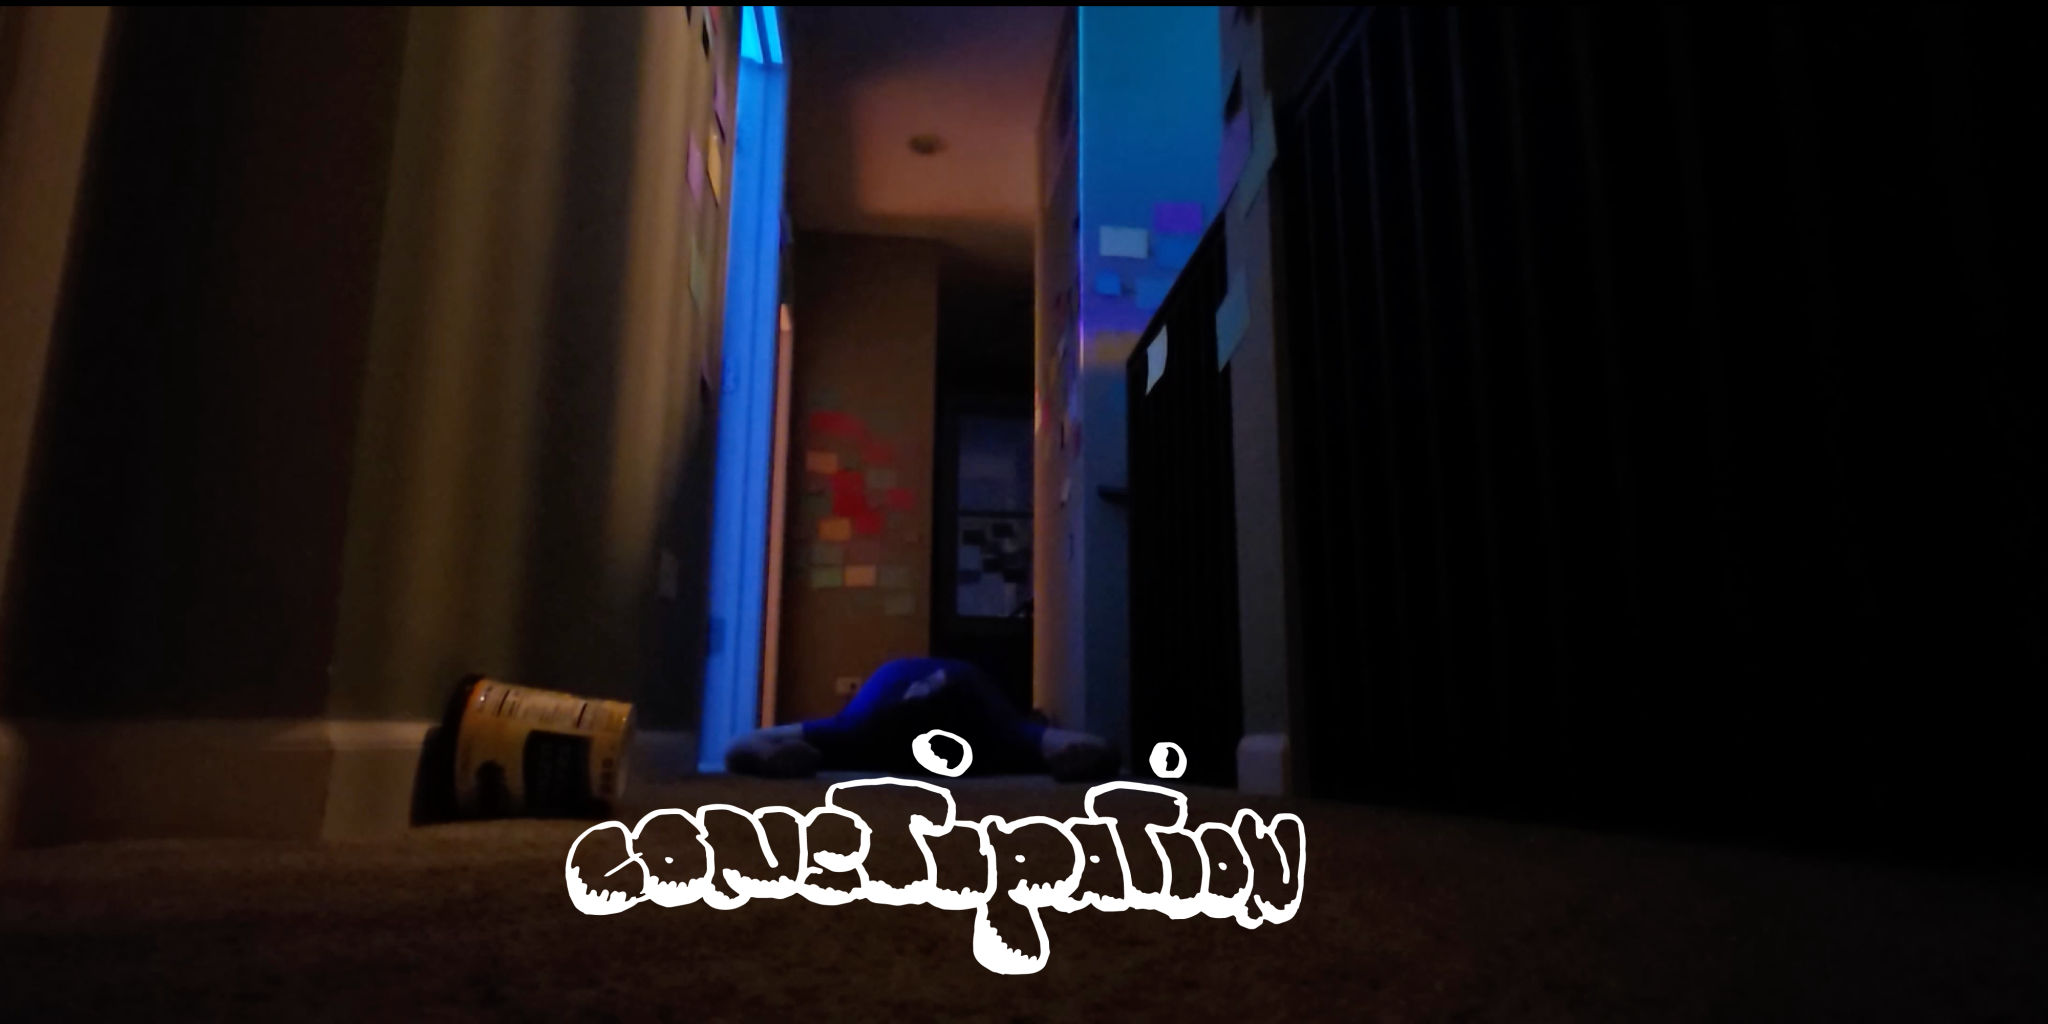
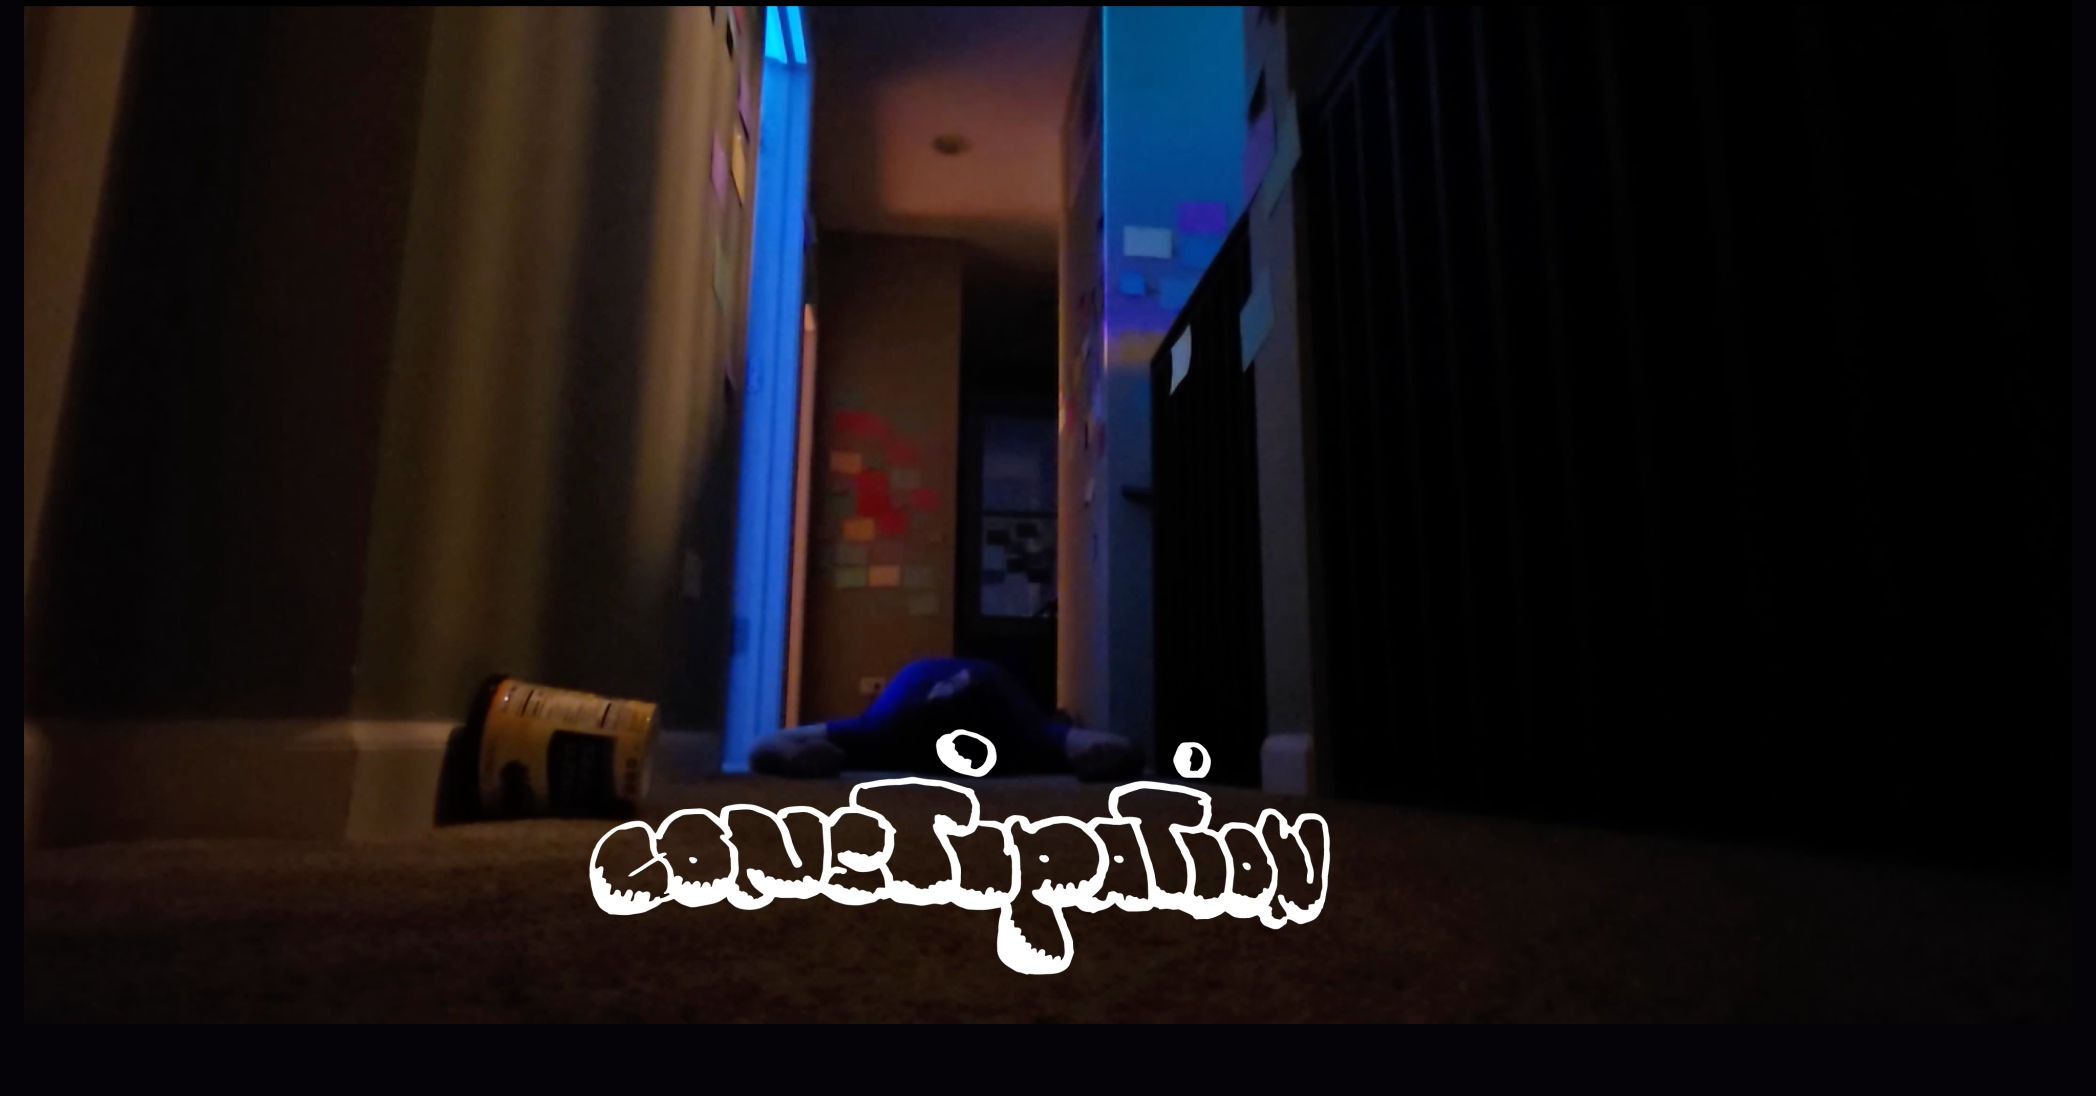
fix: mobile cover layout and new SCRIPT_URL
Phone/iPad get full-bleed cover, centered float menu, and a
single wordmark. Point RSVP at the redeployed Apps Script.

diff --git a/styles.css b/styles.css
@@ -45,14 +45,24 @@ body {
   pointer-events: none;
 }
 
-.bg img {
-  flex: none;
+.bg picture {
+  display: block;
+  width: 100%;
+  height: 100%;
+}
+
+.bg-still {
+  display: block;
   width: 100%;
   height: 100%;
   max-width: none;
   object-fit: cover;
   /* Desktop: keep wordmark in the lower-center sweet spot */
   object-position: center 62%;
+}
+
+.bg-wordmark {
+  display: none;
 }
 
 .stage {
@@ -141,6 +151,18 @@ body {
   text-transform: uppercase;
   color: var(--ink-dim);
   text-shadow: 0 1px 2px rgba(0, 0, 0, 0.75);
+}
+
+/* Desktop: stack name field then RSVP (mobile media query makes a row) */
+.name-row {
+  display: flex;
+  flex-direction: column;
+  align-items: flex-start;
+  gap: 0.75rem;
+}
+
+.name-row input {
+  width: 100%;
 }
 
 .form input,
@@ -245,37 +267,70 @@ body {
   display: none !important;
 }
 
-@media (max-width: 640px) {
+/* Phones + iPads (Mini/Pro portrait & most landscape) */
+@media (max-width: 1024px) {
   /*
-    Portrait + cover crops left/right and chops the wide CONSTIPATION mark.
-    Fit the full frame to the viewport width so the wordmark stays whole and centered;
-    letterbox top/bottom with the page’s black background.
+    Zoomed scene cover (no baked title) + one large wordmark at the bottom.
+    RSVP menu centered in the remaining space.
   */
   .bg {
-    align-items: center;
+    align-items: stretch;
     justify-content: center;
   }
 
-  .bg img {
-    width: 100vw;
-    height: 100dvh;
-    max-width: none;
-    object-fit: contain;
+  .bg-still {
+    width: 100%;
+    height: 100%;
+    object-fit: cover;
     object-position: center center;
   }
 
-  /* Form in the upper band so it doesn’t sit on the wordmark */
-  .stage {
-    justify-content: flex-start;
-    padding: max(1rem, env(safe-area-inset-top)) 1rem max(1.25rem, env(safe-area-inset-bottom));
+  .bg-wordmark {
+    display: block;
+    position: absolute;
+    left: 50%;
+    bottom: max(0.75rem, calc(env(safe-area-inset-bottom) + 0.25rem));
+    transform: translateX(-50%);
+    /* Full title in-frame — C and N must clear the viewport edges */
+    width: min(36rem, calc(100vw - 2.5rem));
+    max-width: calc(100vw - 2.5rem);
+    height: auto;
+    box-sizing: border-box;
+    pointer-events: none;
+    filter: drop-shadow(0 4px 18px rgba(0, 0, 0, 0.95));
   }
 
-  .shell {
-    margin-top: 0.5rem;
+  .stage {
+    justify-content: center;
+    align-items: center;
+    padding: max(0.55rem, env(safe-area-inset-top)) 0.7rem
+      calc(min(28vw, 11rem) + 2.5rem + env(safe-area-inset-bottom, 0px));
+  }
+
+  .shell.float-menu {
+    width: min(24rem, 100%);
+    margin: 0 auto;
+    padding: 0.75rem 0.85rem 0.85rem;
+    border: 1px solid rgba(244, 239, 230, 0.22);
+    background: rgba(5, 3, 8, 0.72);
+    backdrop-filter: blur(10px);
+    -webkit-backdrop-filter: blur(10px);
+  }
+
+  .meta {
+    font-size: 0.78rem;
+    margin: 0 0 0.2rem;
+  }
+
+  .warn {
+    margin: 0.35rem 0 0.45rem;
+    font-size: 0.8rem;
   }
 
   .form.thirds {
     flex-direction: column;
+    gap: 0.45rem;
+    margin-top: 0.45rem;
   }
 
   .col-main,
@@ -284,9 +339,42 @@ body {
     width: 100%;
   }
 
-  .form textarea {
-    min-height: 6.5rem;
+  .col-main {
+    gap: 0.35rem;
   }
+
+  .name-row {
+    display: flex;
+    flex-direction: row;
+    gap: 0.45rem;
+    align-items: stretch;
+  }
+
+  .name-row input {
+    flex: 1 1 auto;
+    min-width: 0;
+    width: auto;
+  }
+
+  .name-row button {
+    flex: 0 0 auto;
+  }
+
+  .form input,
+  .form textarea {
+    padding: 0.45rem 0.55rem;
+    font-size: 0.92rem;
+  }
+
+  .form textarea {
+    min-height: 2.6rem;
+  }
+
+  .form button {
+    padding: 0.45rem 0.85rem;
+    font-size: 0.88rem;
+  }
+
 
   .ticket-details dt {
     flex-basis: 100%;

diff --git a/index.html b/index.html
@@ -18,16 +18,33 @@
   </head>
   <body>
     <div class="bg" aria-hidden="true">
+      <picture>
+        <source
+          media="(max-width: 1024px)"
+          srcset="assets/constipation-background-mobile.jpg"
+          width="1050"
+          height="580"
+        />
+        <img
+          class="bg-still"
+          src="assets/constipation-background.jpg"
+          alt=""
+          width="2096"
+          height="1096"
+          decoding="async"
+        />
+      </picture>
       <img
-        src="assets/constipation-background.jpg"
+        class="bg-wordmark"
+        src="assets/constipation-wordmark.png"
         alt=""
-        width="1600"
-        height="900"
+        width="790"
+        height="250"
         decoding="async"
       />
     </div>
     <main class="stage">
-      <section id="rsvp-panel" class="shell" aria-live="polite">
+      <section id="rsvp-panel" class="shell float-menu" aria-live="polite">
         <p class="meta" id="showing-label"></p>
         <p class="meta">
           <a id="maps-link" href="#" target="_blank" rel="noopener noreferrer"></a>
@@ -41,23 +58,25 @@
 
         <form id="rsvp-form" class="form thirds" autocomplete="on">
           <div class="col-main">
-            <label>
+            <label class="field-name">
               Name
-              <input name="name" type="text" required maxlength="120" autocomplete="name" />
+              <span class="name-row">
+                <input name="name" type="text" required maxlength="120" autocomplete="name" />
+                <button type="submit" id="submit-btn">RSVP</button>
+              </span>
             </label>
-            <button type="submit" id="submit-btn">RSVP</button>
             <p class="status" id="form-status" role="status"></p>
           </div>
           <div class="col-note">
             <label>
               Write a message
-              <textarea name="note" rows="6" maxlength="500"></textarea>
+              <textarea name="note" rows="3" maxlength="500"></textarea>
             </label>
           </div>
         </form>
       </section>
 
-      <section id="ticket-panel" class="shell ticket hidden" aria-live="polite">
+      <section id="ticket-panel" class="shell float-menu ticket hidden" aria-live="polite">
         <p class="meta">Screenshot as your ticket!</p>
         <p class="ticket-title">You're in</p>
         <dl class="ticket-details">

diff --git a/config.js b/config.js
@@ -1,7 +1,7 @@
 // SCRIPT_URL = Apps Script Web app …/exec (Who has access: Anyone).
 window.SHOWING_CONFIG = {
   SCRIPT_URL:
-    "https://script.google.com/macros/s/AKfycbzNEZjMeKUJgep6PLW4fKyhQzwVynnAMRed_FeLFpMW7EwzauQ1KNLkv_dg3w7m3h35kw/exec",
+    "https://script.google.com/macros/s/AKfycbymma-cOnHHbUnJJQrWFCkxxasqYtmjDfoZHdktSP4Dh6CgaER2pZ9l8Tnwg294sThdEA/exec",
   CAPACITY: 50,
   SHOWING_LABEL: "Saturday, December 5, 2026, 9 PM",
   LOCATION_LABEL: "1608 N Washtenaw Ave, Chicago IL",

diff --git a/app.js b/app.js
@@ -126,7 +126,6 @@
       action: "rsvp",
       name: name,
       note: note,
-      showing: showingLabel,
     });
     if (!data || data.ok !== true) {
       throw new Error((data && data.error) || "Submit rejected");
